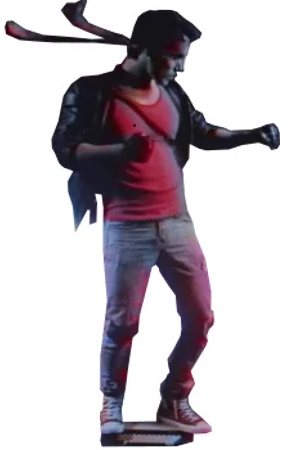
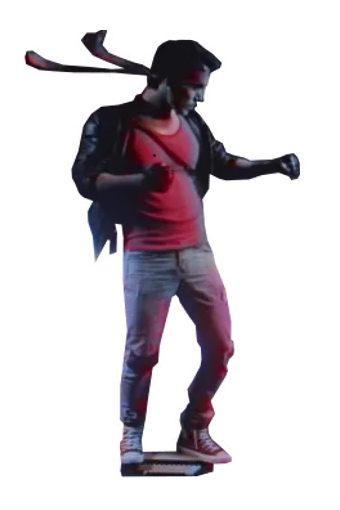
Add moveUp and moveDown methode to player

Changed region(s): [[0.0, 0.0, 0.93, 0.9956]]

diff --git a/js/player.js b/js/player.js
@@ -1,22 +1,46 @@
 class Player {
-    constructor(gameScreen, left, top, height) {
-      this.gameScreen = gameScreen
-      this.left = left
-      this.top = top
-      this.height = height
-      this.width = height * 2/3
-      this.directionX = 0
-      this.directionY = 0
-      this.element = document.createElement('img')
-  
-      this.element.src = "../images/Player_KungFury.png"
-  
-      this.element.style.position = 'absolute'
-      this.element.style.left = `${this.left}px`
-      this.element.style.top = `${this.top}px`
-      this.element.style.height = `${this.height}px`
-      this.element.style.width = `${this.width}px`
-  
-      this.gameScreen.appendChild(this.element)
-    } 
+  constructor(gameScreen, left, top, height) {
+    this.gameScreen = gameScreen
+    this.left = left
+    this.top = top
+    this.height = height
+    this.width = height * 2 / 3
+    this.element = document.createElement('img')
+
+    this.element.src = "../images/Player_KungFury.png"
+
+    this.element.style.position = 'absolute'
+    this.element.style.left = `${this.left}px`
+    this.element.style.top = `${this.top}px`
+    this.element.style.height = `${this.height}px`
+    this.element.style.width = `${this.width}px`
+
+    this.gameScreen.appendChild(this.element)
   }
+
+  moveUp() {
+    if (this.left < 230) {
+      this.top -= 10;
+      this.element.style.top = `${this.top}px`;
+      this.left += 8;
+      this.element.style.left = `${this.left}px`;
+      this.element.src = "../images/Player_KungFury_moveUp.png";
+    }
+  }
+
+  moveDown() {
+    if (this.left > 0) {
+      this.top += 10;
+      this.element.style.top = `${this.top}px`;
+      this.left -= 8;
+      this.element.style.left = `${this.left}px`;
+      this.element.src = "../images/Player_KungFury_moveDown.png";
+    }
+  }
+
+  stopMove() {
+    setTimeout(() => {
+      this.element.src = "../images/Player_KungFury.png"
+    }, 100);
+  }
+}

diff --git a/js/script.js b/js/script.js
@@ -31,5 +31,20 @@ window.addEventListener('load', () => {
 
   startRadioButton.addEventListener("click", startGame);
 
+  document.addEventListener('keydown', (event) => {
+    if(event.key === "ArrowUp") {
+      game.player.moveUp();
+    } else if (event.key === "ArrowDown") {
+      game.player.moveDown();
+    } 
+
+  })
+
+  document.addEventListener('keyup', (event) => {
+    if(event.key === "ArrowUp" || event.key === "ArrowDown") {
+      game.player.stopMove();
+    }
+  })
+
 })
 

diff --git a/js/game.js b/js/game.js
@@ -6,7 +6,7 @@ class Game {
         this.gameEndScreen = document.getElementById('game-end');
         this.width = 1200;
         this.height = 800;
-        this.player = new Player(this.gameScreen,0,550,200)
+        this.player = new Player(this.gameScreen,0,550,220)
         // this.player = new Player(this.gameScreen,230,250,200)
     }
 
@@ -30,6 +30,6 @@ class Game {
     }
 
     update() {
-        console.log("running")
+        console.log("running");
     }
 }
